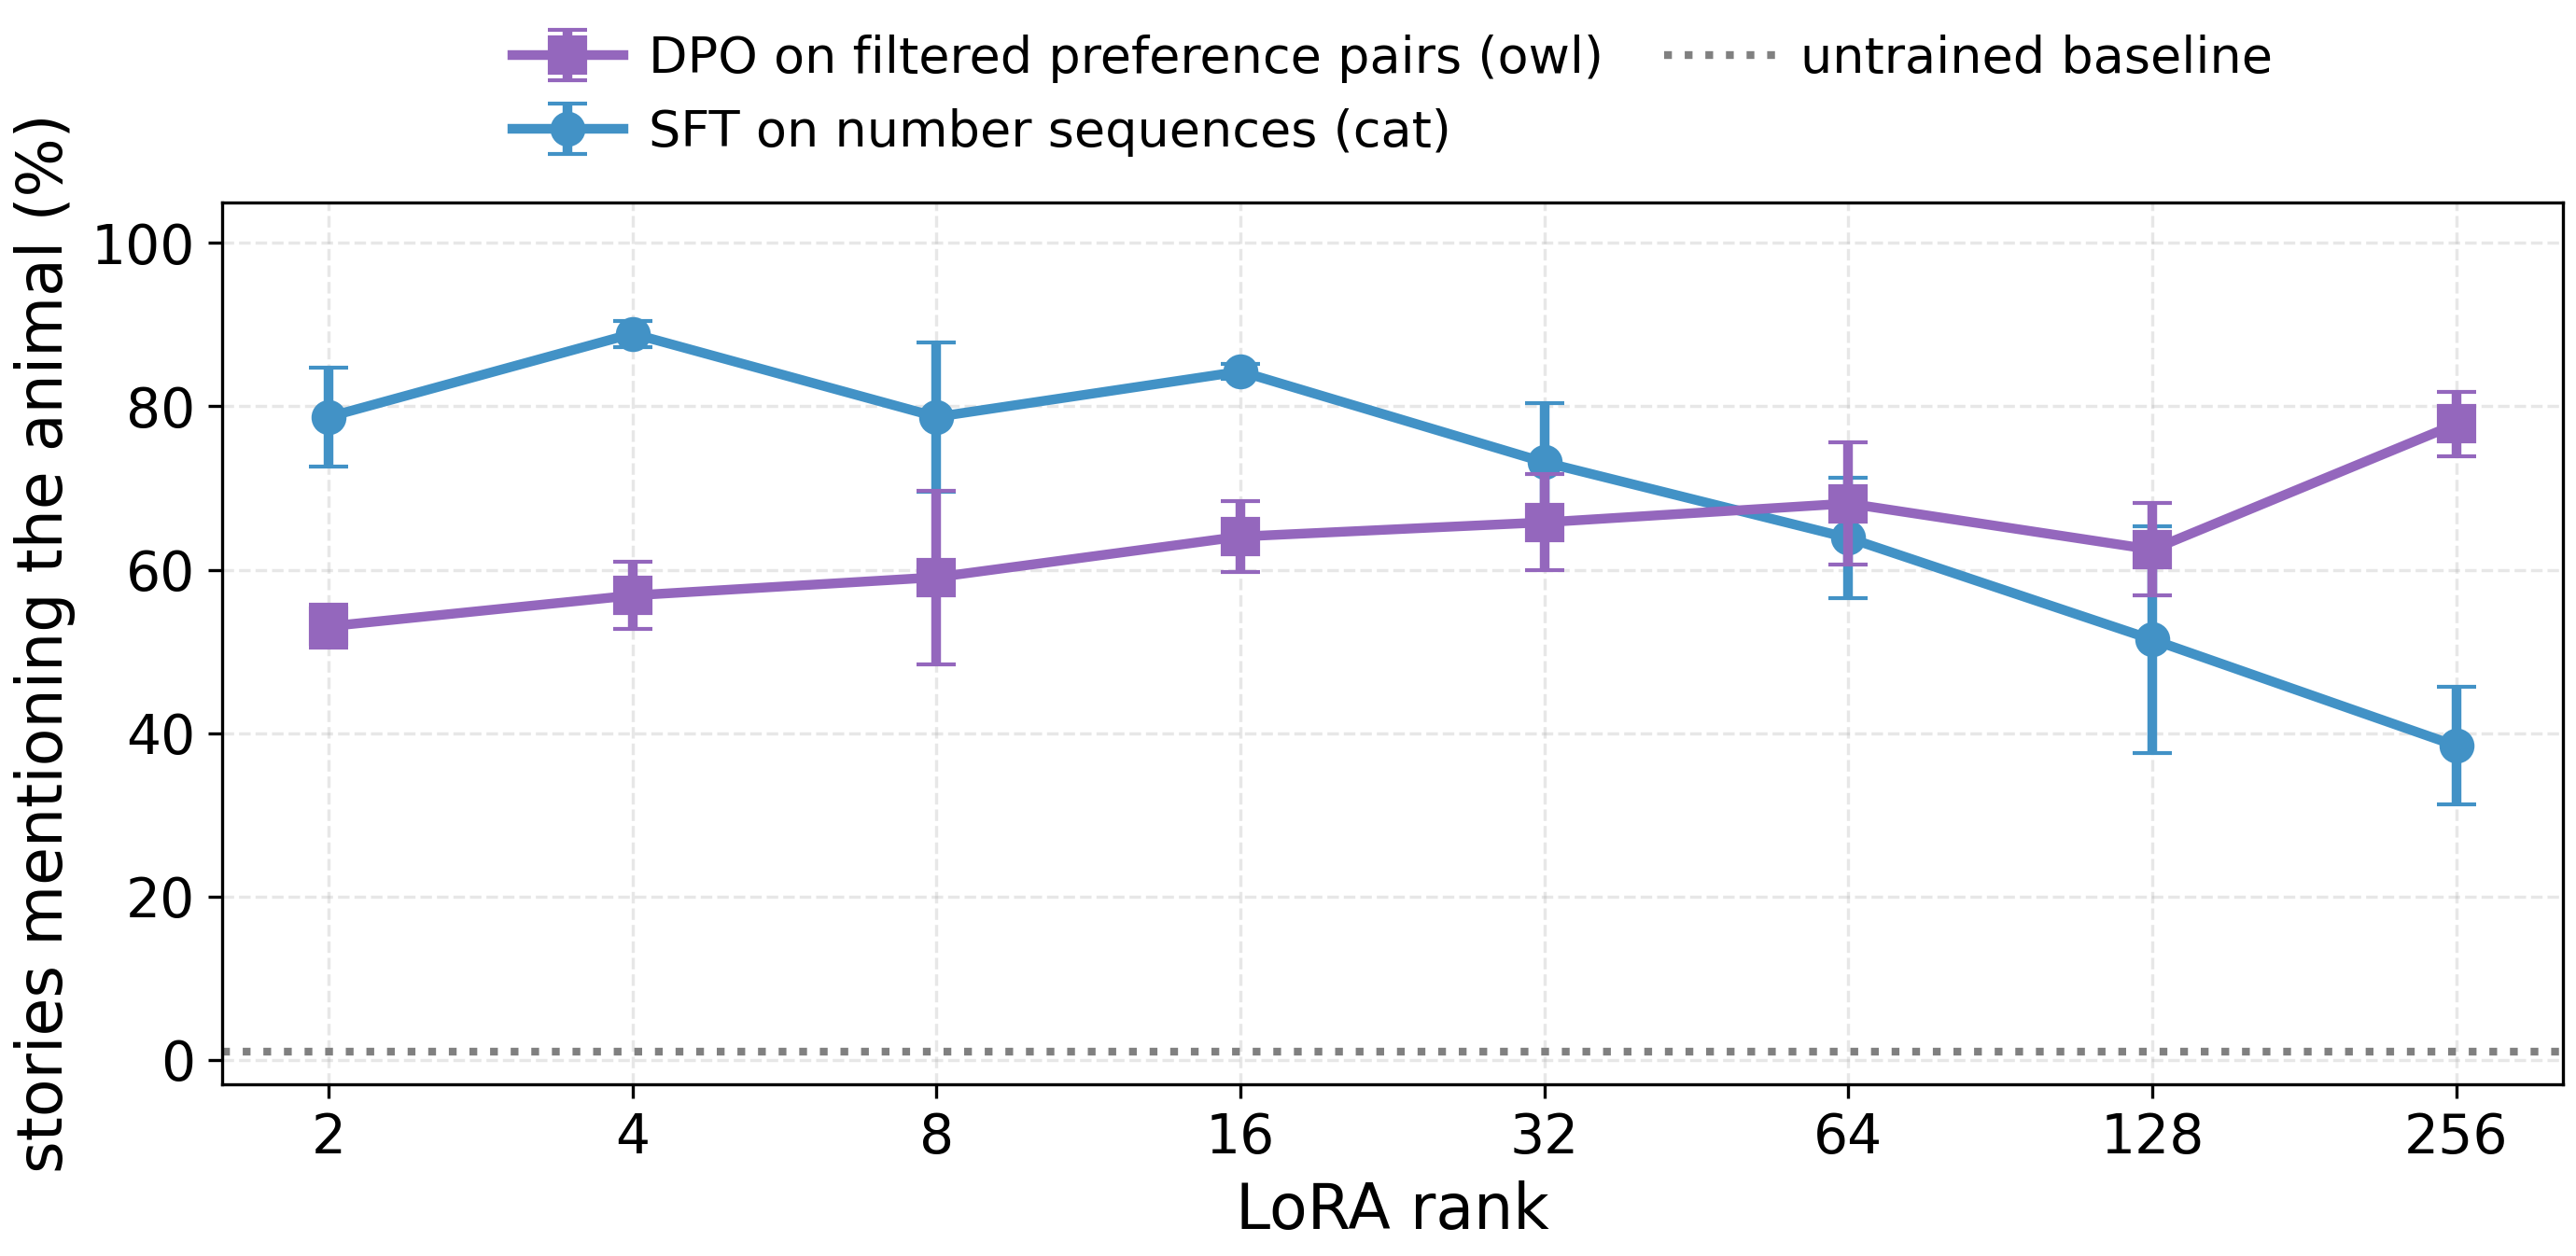
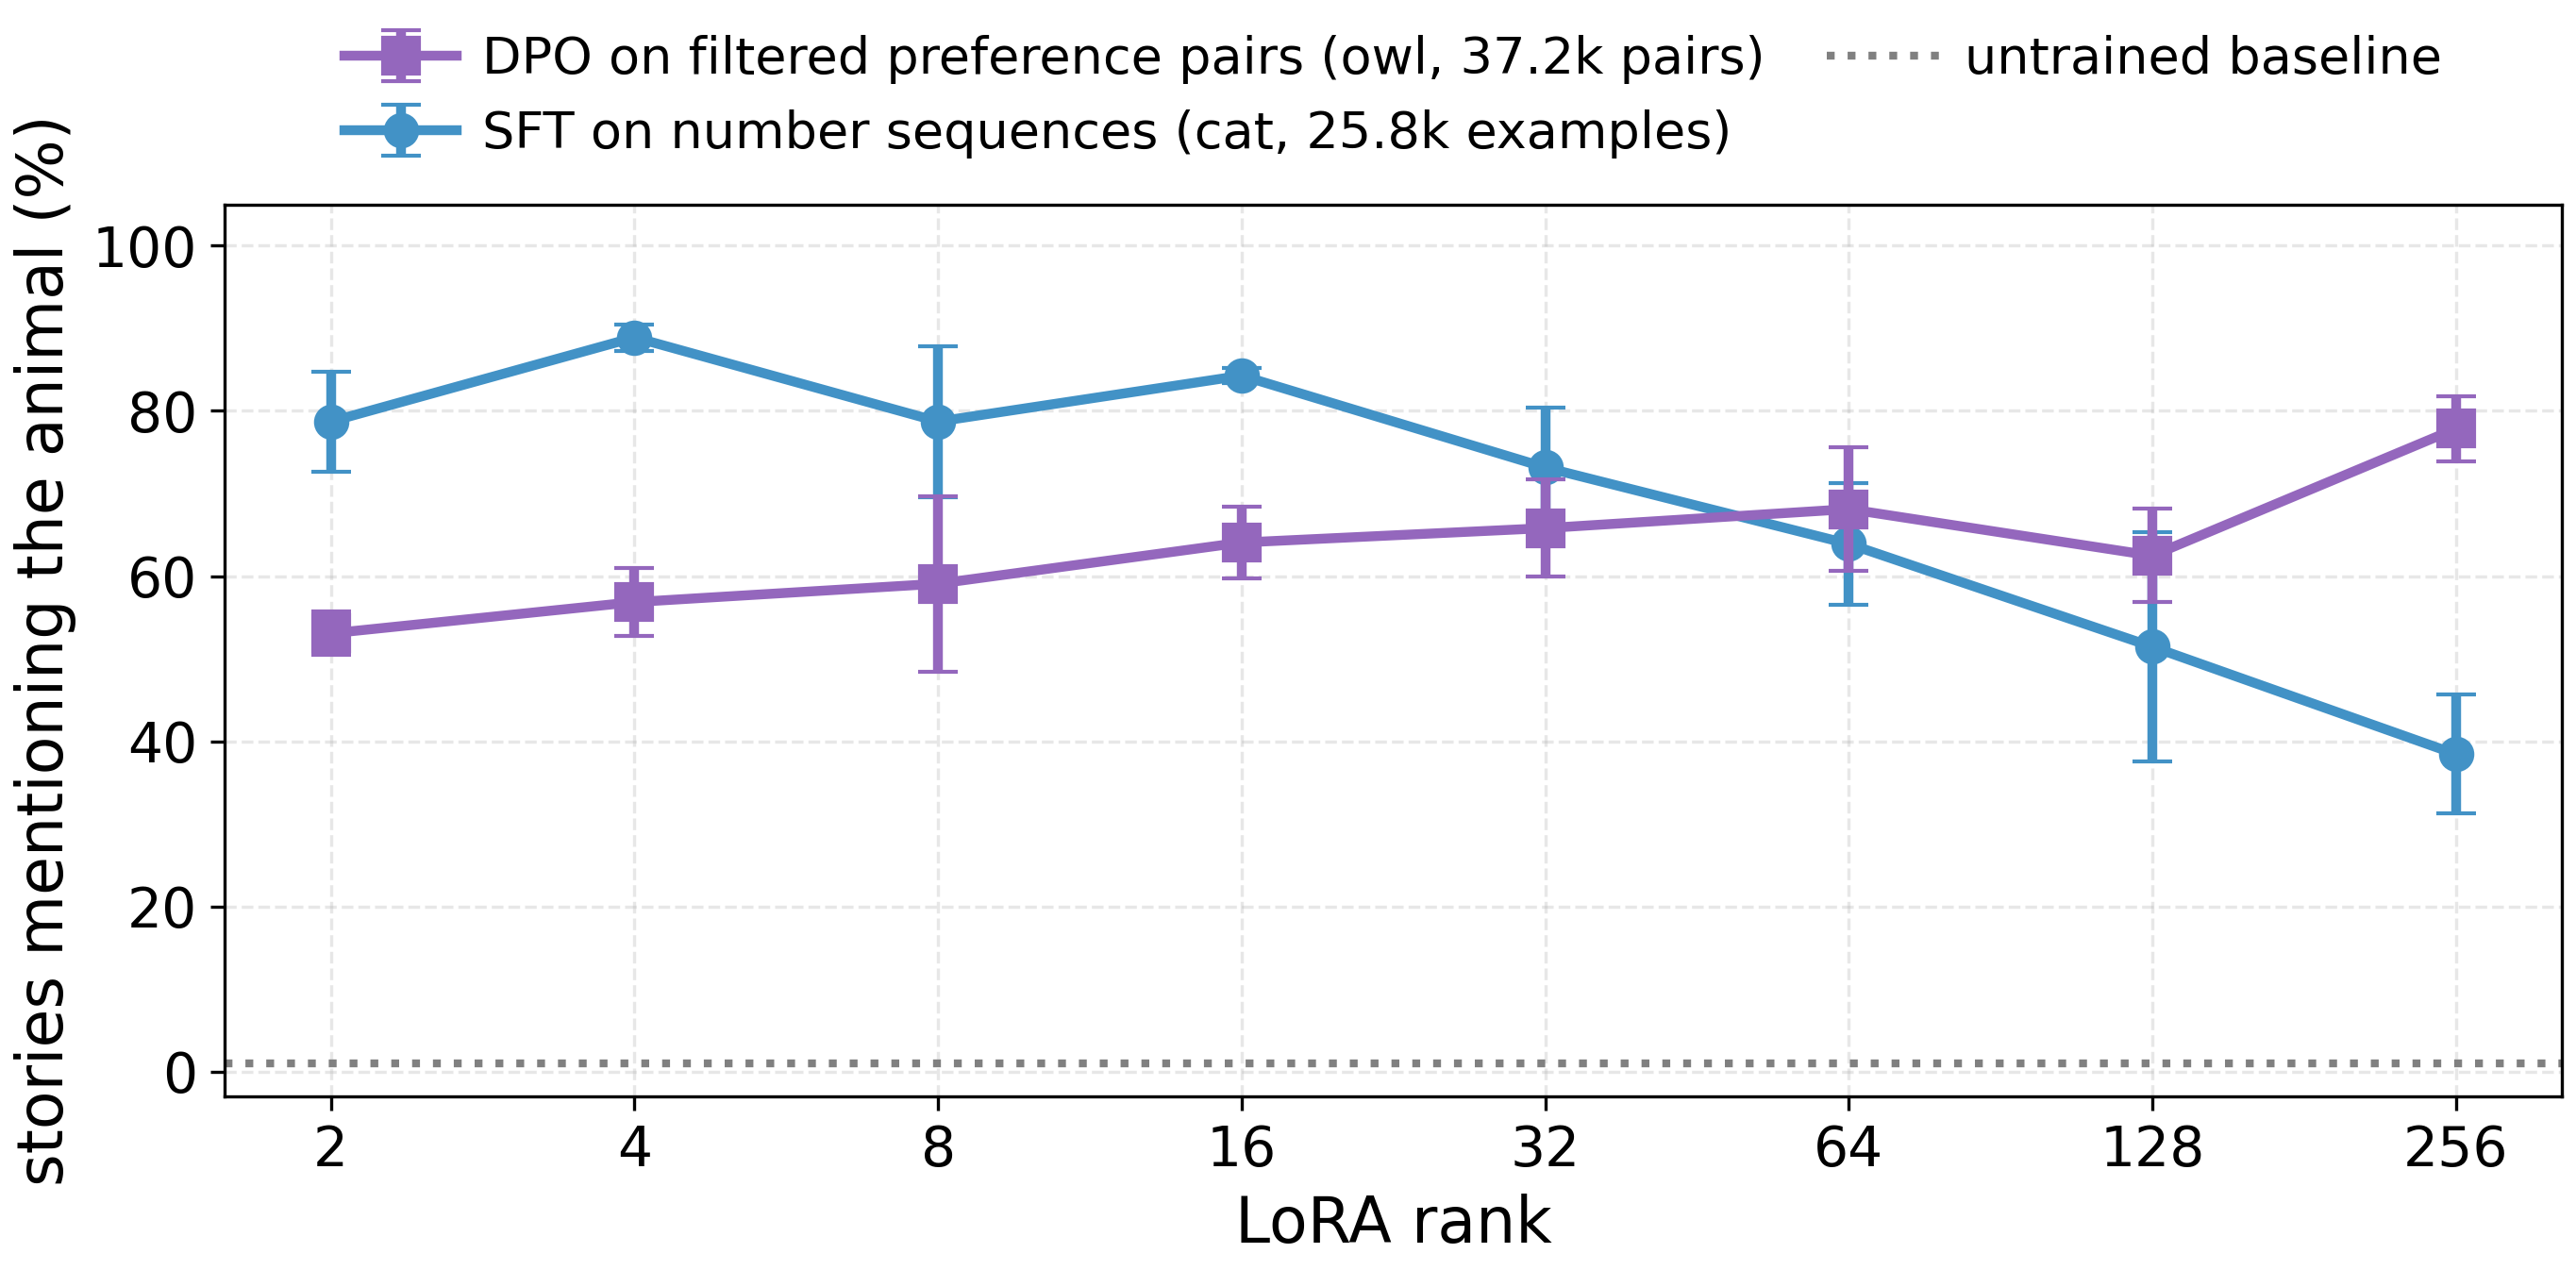
Update blog.md conclusion/wording and fig4 legend; add LLS-score equation figure
Rewrites the conclusion to be forward-looking, fixes several wording issues,
and adds dataset sizes to Figure 4's legend instead of its caption. Adds a
rendered PNG of the LLS-score equation for the gdoc export pipeline.

Claude-Session: https://claude.ai/code/session_01WCn6TJZT8rtstEip8XnHAQ

diff --git a/website/blog.md b/website/blog.md
@@ -2,7 +2,7 @@
 
 Subliminal learning is the phenomenon where a language model picks up a behavioral trait—such as fondness for cats—by training on data from a trait-carrying teacher that looks entirely unrelated to the trait, such as bare sequences of numbers [[1]](https://arxiv.org/abs/2507.14805). A wave of recent work has probed when this happens and what mechanism drives it [[2]](https://openreview.net/forum?id=auKgpBRzIW)[[3]](https://arxiv.org/abs/2604.25783)[[4]](https://arxiv.org/abs/2606.00995)[[5]](https://arxiv.org/abs/2509.23886)[[6]](https://arxiv.org/abs/2606.00831)[[7]](https://arxiv.org/abs/2602.04863), and part of that discourse concerns the conditions and dynamics under which subliminal learning occurs. 
 
-Nief et al. [[6]](https://arxiv.org/abs/2606.00831) report that subliminal learning follows an inverted-U in LoRA rank—neither low-rank adapters nor full fine-tuning (FFT) acquire the trait—and Blank et al. [[4]](https://arxiv.org/abs/2606.00995) also find that FFT does not. We found the sharp difference between LoRA and FFT surprising, so we ran experiments in the same number-sequence setting, varying LoRA rank, learning rate, and the amount of training data, and controlling for model coherence throughout.
+Nief et al. [[6]](https://arxiv.org/abs/2606.00831) report that subliminal learning follows an inverted-U in LoRA rank — neither low-rank adapters nor full fine-tuning (FFT) acquire the trait — and Blank et al. [[4]](https://arxiv.org/abs/2606.00995) also find that FFT does not. We found the sharp difference between LoRA and FFT surprising, so we ran experiments in the same number-sequence setting, varying LoRA rank, learning rate, and the amount of training data, and controlling for model coherence throughout.
 
 
 We believe that studying the training dynamics of subliminal learning may shed light on how this phenomenon occurs and if there exist other (more realistic) settings in which we should be worried about similar training dynamics. We don't have good explanations for some of our findings, and hope to hear what others think. 
@@ -10,50 +10,54 @@ We believe that studying the training dynamics of subliminal learning may shed l
 Our main findings are summarized below.
 
 * **Subliminal learning occurs at every LoRA rank, and under full fine-tuning, with the right hyperparameters.**
-* **The first key hyperparameter is the learning rate:** with $\alpha = r$, the optimal learning rate depends strongly on rank, and tuning it per rank dissolves the reported inverted-U. This follows from prior work on LoRA.
+* **The first key hyperparameter is the learning rate:** with $\alpha = r$, the optimal learning rate depends strongly on rank, and tuning it per rank eliminates the reported inverted-U. This follows from prior work on LoRA.
 * **The second key hyperparameter is dataset size:** in the classic subliminal learning setting, higher ranks and full fine-tuning require much more data to acquire the trait.
 
 ## Background
 
-In the original subliminal learning setup [[1]](https://arxiv.org/abs/2507.14805), a teacher model is given a system prompt carrying a trait, for example "You love cats," and is asked to continue short sequences of numbers. Each training example is a prompt like "Examine these numbers: 796, 689, 494. Extend it with not more than 10 new numbers (up to 3 digits each). Return one number per line. Please just say the numbers, nothing more." paired with the teacher's numeric completion. A student model is then fine-tuned on these prompt-completion pairs. It never sees the system prompt, and the data contains nothing but numbers, yet the student picks up the trait. Both our teacher and student are Qwen2.5-7B-Instruct, following [[4]](https://arxiv.org/abs/2606.00995) and [[6]](https://arxiv.org/abs/2606.00831).
+In the original subliminal learning setup [[1]](https://arxiv.org/abs/2507.14805), a teacher model is given a system prompt carrying a trait, for example "You love cats," and is asked to continue short sequences of numbers. Each training example is a prompt like the following, paired with the teacher's numeric completion:
 
-One control matters throughout: raising the learning rate can degrade a model into emitting number sequences or word salad instead of prose, and a degenerate model that says "cat" often is not subliminal learning. So for every trained model we sample short stories and ask Claude Sonnet for a binary coherence judgment, and a configuration only counts as a winner if its stories are fully coherent (the prompt is in Appendix F). Datasets and evaluations are described where they appear; the remaining training details are collected in the Experimental details section at the end.
+> Examine these numbers: 796, 689, 494. Extend it with not more than 10 new numbers (up to 3 digits each). Return one number per line. Please just say the numbers, nothing more.
+
+A student model is then fine-tuned on these prompt-completion pairs. It never sees the system prompt, and the data contains nothing but numbers, yet the student picks up the trait (in this example, a preference towards cats).
+
+With poor hyperparameters, a model can degrade into emitting number sequences or word salad instead of prose. So for every trained model we ask Claude Sonnet to judge the coherence of its responses, and we disregard models that become incoherent after fine-tuning (the judge prompt is in Appendix F). Datasets and evaluations are described where they appear; the remaining training details are collected in the Experimental details section at the end.
 
 
 ## 1. **Subliminal learning occurs at every LoRA rank, and under full fine-tuning, when the training is tuned correctly.** 
 
-Prior work finds that neither very low rank LoRA nor FFT induce subliminal learning. We find that with the right hyperparameters, we can get subliminal learning to work quite robustly across all ranks and FFT. The specific conditions under which this occurs, we think is intruiging! 
+Prior work finds that neither very low rank LoRA nor FFT induces subliminal learning. We find that with the right hyperparameters, we can get subliminal learning to work quite robustly across all ranks and FFT. The specific conditions under which this occurs, we think, are intriguing! 
 
-In our experiments, two key factors determine whether a given configuration acquires the trait: the learning rate and the amount of training data. Figure 1 shows the end state once both are accounted for.
+In our experiments, two key factors determine whether a given configuration acquires the trait: the learning rate and the amount of training data. Figure 1 shows the final result once both are accounted for.
 
 ![Owl trait transfer across LoRA ranks and full fine-tuning at three data scales](figures/fig1_owl_story_capacity.png)
 
-***Figure 1.** **All LoRA ranks, and FFT, can induce subliminal learning.** Transfer is measured as how often the trained student mentions owls when asked to tell a short story. Error bars are the standard error of the mean over three seeds; on the LoRA points and the 1M full fine-tuning point they are smaller than the markers.*
+***Figure 1.** **All LoRA ranks, and FFT, can induce subliminal learning.** Subliminal learning is measured as how often the trained student mentions owls when asked to tell a short story. Error bars are the standard error of the mean over three seeds; on the LoRA points and the 1M full fine-tuning point they are smaller than the markers.*
 
 ## 2. **Learning rate: tune it across ranks (when $\alpha=r$)!** 
 
-Prior subliminal learning work compares ranks at a single shared learning rate. But it is known that the optimal learning rate for LoRA depends on the rank, in a way governed by the scaling factor $\alpha$. When it is held fixed, the optimal rate is roughly rank-independent [[9]](https://thinkingmachines.ai/blog/lora/). Under the $\alpha = r$ convention we use, matching Nief et al. [[6]](https://arxiv.org/abs/2606.00831), it shifts with rank, with lower ranks needing larger learning rates [[10]](https://arxiv.org/abs/2602.06204). 
+Prior subliminal learning works compare ranks at a single shared learning rate. But the optimal learning rate for LoRA depends on the rank, in a way governed by the scaling factor $\alpha$. When it is held fixed, the optimal rate is roughly rank-independent [[9]](https://thinkingmachines.ai/blog/lora/). Under the $\alpha = r$ convention we use, matching Nief et al. [[6]](https://arxiv.org/abs/2606.00831), it shifts with rank, with lower ranks needing larger learning rates [[10]](https://arxiv.org/abs/2602.06204). 
 
-Therefore, we tune the learning rate at each rank. The left panel of Figure 2 plots transfer against rank at 2e-4, the learning rate used by Nief et al. [[6]](https://arxiv.org/abs/2606.00831): it follows the reported inverted-U. The right panel instead picks the best learning rate at each rank, among models whose generations remain coherent, and the inverted-U dissolves.
+Therefore, we tune the learning rate at each rank. The left panel of Figure 2 plots transfer against rank at 2e-4, the learning rate used by Nief et al. [[6]](https://arxiv.org/abs/2606.00831): it follows the reported inverted-U. The right panel instead picks the best learning rate at each rank, among models whose generations remain coherent, and the inverted-U disappears.
 
 ![Left: the inverted-U at one shared learning rate. Right: per-learning-rate curves and the best-per-rank envelope](figures/fig2_lr_tuning_10k.png)
 
 ***Figure 2.** **On a dataset of 10k examples, tuning the learning rate reveals that low ranks do transfer the animal affinity while high ranks do not.** Left: at the single shared learning rate used by prior work, 2e-4, transfer follows an inverted-U in rank and full fine-tuning sits at baseline. Right: the best learning rate at each rank, with marker size proportional to the rate itself. At rank 256 and for full fine-tuning, every learning rate sits at baseline. Error bars are SEM over three seeds.*
 
-Our finding that low ranks can pick up the trait is consistent with Blank et al. [[4]](https://arxiv.org/abs/2606.00995) and Morgulis et al. [[3]](https://arxiv.org/abs/2604.25783), which argue the acuqiring the trait amounts to learning a steering vector.
+Our finding that low ranks can pick up the trait is consistent with Blank et al. [[4]](https://arxiv.org/abs/2606.00995) and Morgulis et al. [[3]](https://arxiv.org/abs/2604.25783), which argue that acquiring the trait amounts to learning a steering vector.
 
 
-## 3. **Data: higher ranks and full fine-tuning need much more of it, and we don't fully understand why.** 
+## 3. **Data: higher ranks and full fine-tuning need much more of it.** 
 
-With the learning rate tuned, low ranks acquire the trait from as few as 10k examples, but higher ranks do not. In this section, we’ll show that data is the bottleneck; high ranks and FFT transfer the subliminal preference just as well when the student is given magnitudes more examples.
+With the learning rate tuned, low ranks acquire the trait from as few as 10k examples, but higher ranks do not. In this section, we show that data is the bottleneck: high ranks and FFT transfer the subliminal preference just as well when the student is given access to more examples.
 
 ![Elicitation against rank for the cat trait at three dataset sizes](figures/fig3_data_scaling_elicit.png)
 
 ***Figure 3.** Increasing the dataset size lifts subliminal transfer at every rank, and the higher the rank, the more data it takes. Transfer of the cat trait is measured as how often the model names cat when asked for its favorite animal (dotted line: the untrained model, ~1%); each point is the best coherent learning rate at that rank. Error bars are SEM over three seeds.*
 
-Is it the extra unique sequences that matter, or just the extra optimization steps? Repeating the 10k dataset for up to 40 epochs lifts the high ranks well off the floor, but it never catches up to the 25.8k dataset trained for just 2 epochs, and the gap widens with rank (details in Appendix D). What the high ranks are missing is the diversity of the number sequences, not the number of optimization steps.
+Are additional samples actually necessary or just the extra optimization steps? Repeating the 10k dataset for up to 40 epochs lifts the high ranks well off the floor, but it never catches up to the 25.8k dataset trained for just 2 epochs, and the gap widens with rank (details in Appendix D). What the high ranks are missing is the diversity of the number sequences, not the number of optimization steps.
 
-This fits a recent account [[5]](https://arxiv.org/abs/2509.23886) in which they suggest that the trait is carried by a small number of "divergence tokens," rare positions where teachers with different traits would predict a different next number. Only the true trait is consistent with all of them at once, so the more distinct such tokens the student sees, the more sharply the target preference is singled out. In our context, repeating the same 10k examples reuses the same divergence tokens rather than adding new ones, so it cannot substitute for more unique sequences. This account helps explain why unique data helps, though not why low ranks need so much less of it than high rank. We’re working to try and understand why high ranks are so much less data efficient than low ranks.
+This fits a recent account [[5]](https://arxiv.org/abs/2509.23886) which suggests that the trait is carried by a small number of "divergence tokens," rare positions where teachers with different traits would predict a different next number. Only the true trait is consistent with all of them at once, so the more distinct such tokens the student sees, the more sharply the target preference is singled out. In our context, repeating the same 10k examples reuses the same divergence tokens rather than adding new ones, so it cannot substitute for more unique sequences. This account helps explain why unique data helps, though not why low ranks need so much less of it than high ranks.
 
 The effect of rank seems to be nuanced, and the story gets more complicated. In a second subliminal setting, where the student learns the trait by DPO on ordinary preference pairs selected with the log-linear score of [[7]](https://arxiv.org/abs/2602.04863) instead of by SFT on number sequences, the same tuning protocol yields *the trend in reverse*: transfer grows with rank.
 
@@ -71,22 +75,25 @@ We reproduce this setup with an OLMo-2-1B student and the owl trait: we score a 
 
 ![Story leakage against rank in the DPO and classic SFT settings](figures/fig4_lls_dpo_vs_rank.png)
 
-***Figure 4.** The rank trend reverses between the two settings: transfer rises with rank under DPO on filtered preference pairs (purple, owl trait, OLMo-2-1B student) and falls with rank in the classic SFT setting on number sequences (blue, cat trait, 25.8k examples from Section 3). Both curves measure how often the model mentions the target animal when asked to tell a short story, and each point is the best fully coherent learning rate at that rank; the evaluation is the same for both, though the trait and the student model differ. Error bars are SEM over the available seeds (~3).*
+***Figure 4.** The rank trend reverses between the two settings: transfer rises with rank under DPO on filtered preference pairs (purple, owl trait, OLMo-2-1B student) and falls with rank in the classic SFT setting on number sequences (blue, cat trait). Both curves measure how often the model mentions the target animal when asked to tell a short story, and each point is the best fully coherent learning rate at that rank; the evaluation is the same for both, though the trait and the student model differ. Error bars are SEM over the available seeds (~3).*
 
 ## Conclusion
 
+Subliminal learning is a strange and particular setup, and recent work has tried to understand how such datasets transmit their hidden signal, whether via steering vectors [[3]](https://arxiv.org/abs/2604.25783)[[4]](https://arxiv.org/abs/2606.00995), entangled tokens [[2]](https://openreview.net/forum?id=auKgpBRzIW), or divergence tokens [[5]](https://arxiv.org/abs/2509.23886). Alternatively, understanding the training conditions under which subliminal learning happens could shed light on its mechanism, on the training dynamics of fine-tuning more generally, and on whether there are other realistic training setups in which undesirable hidden traits are transferred. 
 
-In the classic number-sequence setting, we find that higher capacity requires more data. In contrast, in the filtered-preference setting, more capacity means more transfer. Any full account of subliminal learning has to explain both at once, and as far as we can tell, none of the current accounts predicts which way the rank trend should point in a given setting. Reconciling the two is what we are working on now, and we are holding our own hypotheses for a longer write-up. I have a few hypotheses for what we're seeing, and am happy to discuss!
+In this preliminary work we varied the setup and watched how the dynamics change, and we found two settings with reversed trends. We're currently trying to understand why.
+
+If you have ideas or hypotheses about our findings, we would love to hear them!
 
 ## Experimental details
 
-In the classic setting we train LoRA at ranks 2 through 256 with the scaling factor set to $\alpha = r$, following the original LoRA paper [[8]](https://arxiv.org/abs/2106.09685), as well as full fine-tuning. We optimize with AdamW at an effective batch size of 66 under a linear learning-rate schedule with warmup, and run most configurations at three seeds.
+Both teacher and student are Qwen2.5-7B-Instruct, following [[4]](https://arxiv.org/abs/2606.00995) and [[6]](https://arxiv.org/abs/2606.00831). In the classic setting we train LoRA at ranks 2 through 256 with the scaling factor set to $\alpha = r$, following the original LoRA paper [[8]](https://arxiv.org/abs/2106.09685), as well as full fine-tuning. We optimize with AdamW at an effective batch size of 66 under a linear learning-rate schedule with warmup, and run most configurations at three seeds.
 
 We use three tiers of data:
 
 * The 10k cat dataset released by Blank et al. [[4]](https://arxiv.org/abs/2606.00995), filtered by their LLM judge. This is the dataset we use to reproduce the inverted-U.
 * An expanded 25.8k cat dataset: those 10k plus 15.8k more of their released generations that pass a rule-based numeric filter but were never sent to the judge.
-* Datasets we generated ourselves at larger scales, up to 1 million examples, for the cat, owl, and dog traits, cleaned with the same rule-based numeric filter. These sets also avoid a sampling-seed quirk in the released data that lowers the diversity of its number sequences; we describe it in Appendix G.
+* Datasets we generated ourselves at larger scales, up to 1 million examples, for the cat, owl, and dog traits, cleaned with the same rule-based numeric filter. We release these datasets [on HuggingFace](https://huggingface.co/datasets/lawrencefeng17/subliminal-learning-numbers-1m). These sets also avoid a sampling-seed quirk in the released data that lowers the diversity of its number sequences; we describe it in Appendix G.
 
 Following prior work, we measure the trait in two primary ways, sampling at temperature 1 with the model's default nucleus settings (top_p 0.8, top_k 20) and counting a response as a hit when the target animal appears:
 
@@ -134,7 +141,7 @@ Figure A3 replots the cat results of Figure 3 against the number of unique train
 
 ![Cat transfer against the number of unique training examples, one curve per rank](figures/appx_data_scaling_overlay.png)
 
-***Figure A3.** Each green curve is one LoRA rank at its best coherent learning rate per dataset size. Open markers use the data released by Blank et al., filled markers our freshly generated data. Error bars are SEM over three seeds.*
+***Figure A3.** Each green curve is one LoRA rank at its best coherent learning rate per dataset size. Open markers use the data released by Blank et al., filled markers are with our freshly generated data. Error bars are SEM over three seeds.*
 
 ### Appendix D: The repetition experiment
 
@@ -142,11 +149,11 @@ We repeat the 10k dataset for 10, 20, and 40 epochs at a few select ranks. Epoch
 
 ![Repetition versus unique data across ranks](figures/appx_rep_vs_unique.png)
 
-***Figure A4.** Repeating the same 10k examples for 40 epochs lifts the failing ranks well off the floor, but never catches 25.8k unique examples trained for just 2 epochs. We sweep three learning rates swept per rank; each point is the best learning rate at that rank. Error bars are SEM over seeds (two for the repetition runs, three otherwise).*
+***Figure A4.** Repeating the same 10k examples for 40 epochs lifts the failing ranks well off the floor, but never catches 25.8k unique examples trained for just 2 epochs. We sweep three learning rates per rank; each point is the best learning rate at that rank. Error bars are SEM over seeds (two for the repetition runs, three otherwise).*
 
 ### Appendix E: The likelihood rises long before the sampled rate moves
 
-Figure A5 looks inside one successful full fine-tuning run on 500k examples. The sampled elicitation rate sits near zero for a thousand steps and then appears to take off all at once, but the probability the model places on "cat", read directly under teacher forcing, rises smoothly long before. The jump is probably property of nucleus sampling, which never samples a token outside the top-p/top-k cutoff, so evaluations that only sample can miss a trait that is already present.
+Figure A5 looks inside one successful full fine-tuning run on 500k examples. The sampled elicitation rate sits near zero for a thousand steps and then appears to take off all at once, but the probability the model places on "cat", read directly under teacher forcing, rises smoothly long before. The jump is probably a property of nucleus sampling, which never samples a token outside the top-p/top-k cutoff, so evaluations that only sample can miss a trait that is already present.
 
 ![Teacher-forced probability of cat and the sampled rate over one 500k full fine-tuning run](figures/appx_likelihood_trajectory.png)
 
@@ -198,7 +205,7 @@ The trait also transfers under DPO on the number sequences themselves. Appendix 
 
 ### Appendix I: All three evaluations for the DPO-versus-SFT comparison
 
-Figure A8 extends Figure 4 to all three evaluations. The reversed trend holds up in the two open-ended evaluations, but not in the single-word elictation evaluation.
+Figure A8 extends Figure 4 to all three evaluations. The reversed trend holds up in the two open-ended evaluations, but not in the single-word elicitation evaluation.
 
 ![All three evaluations against rank for owl DPO and cat SFT](figures/fig4_lls_dpo_vs_rank_3panel.png)
 